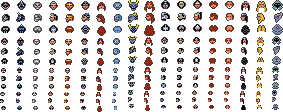
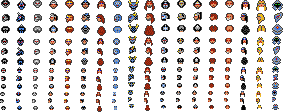
Head Fixes

diff --git a/testing.js b/testing.js
@@ -14,52 +14,15 @@ function testing(){
         DIRECTION = 3;
     }
     
-    var CHAR_PARTY_FRONT_RIGHTX = 65,
-            CHAR_PARTY_FRONT_RIGHTY = 0,
-            CHAR_PARTY_FRONT_LEFTX = -CHAR_PARTY_FRONT_RIGHTX,
-            CHAR_PARTY_FRONT_LEFTY = -CHAR_PARTY_FRONT_RIGHTY,
-            CHAR_SOLO_X = 0,
-            CHAR_SOLO_Y = 0;
-    
-//test1 = 3;
- //DIRECTION = 0;
- //TYPE = 1;
-    
-
-    
-   // var CHAR_OFFSETX = CHAR_SOLO_X,
-    //        CHAR_OFFSETY = CHAR_SOLO_Y;
-    
-   //var COLOUR = 1;
-    
     try {
         
-//        switch (DIRECTION) {
-//            
-//            case 0:{ctx.drawImage(characterGfx[IMAGE_CHA_LEG][COLOUR][TYPE][DISTANCE][DIRECTION],characterSpriteLocations[DISTANCE][0][0]+CHAR_OFFSETX,characterSpriteLocations[DISTANCE][0][1]+CHAR_OFFSETY,characterGfx[IMAGE_CHA_LEG][COLOUR][TYPE][DISTANCE][DIRECTION].width * scale, characterGfx[IMAGE_CHA_LEG][COLOUR][TYPE][DISTANCE][DIRECTION].height * scale); 
-//                    ctx.drawImage(characterGfx[IMAGE_CHA_BODY][COLOUR][TYPE][DISTANCE][DIRECTION],characterSpriteLocations[DISTANCE][1][0]+CHAR_OFFSETX,characterSpriteLocations[DISTANCE][1][1]+CHAR_OFFSETY,characterGfx[IMAGE_CHA_BODY][COLOUR][TYPE][DISTANCE][DIRECTION].width * scale, characterGfx[IMAGE_CHA_BODY][COLOUR][TYPE][DISTANCE][DIRECTION].height * scale); 
-//                    ctx.drawImage(characterGfx[IMAGE_CHA_HEAD][COLOUR][TYPE][DISTANCE][DIRECTION],characterSpriteLocations[DISTANCE][2][0]+CHAR_OFFSETX,characterSpriteLocations[DISTANCE][2][1]+CHAR_OFFSETY,characterGfx[IMAGE_CHA_HEAD][COLOUR][TYPE][DISTANCE][DIRECTION].width * scale, characterGfx[IMAGE_CHA_HEAD][COLOUR][TYPE][DISTANCE][DIRECTION].height * scale); 
-//                    ctx.drawImage(flipImage(characterGfx[IMAGE_CHA_ARM][COLOUR][TYPE][DISTANCE][DIRECTION]),characterSpriteLocations[DISTANCE][3][0]+CHAR_OFFSETX,characterSpriteLocations[DISTANCE][3][1]+CHAR_OFFSETY,characterGfx[IMAGE_CHA_ARM][COLOUR][0][DISTANCE][DIRECTION].width * scale, characterGfx[IMAGE_CHA_ARM][COLOUR][0][DISTANCE][DIRECTION].height * scale);
-//                    ctx.drawImage(characterGfx[IMAGE_CHA_ARM][COLOUR][TYPE][DISTANCE][DIRECTION],characterSpriteLocations[DISTANCE][4][0]+CHAR_OFFSETX,characterSpriteLocations[DISTANCE][4][1]+CHAR_OFFSETY-DISTANCE,characterGfx[IMAGE_CHA_ARM][COLOUR][0][DISTANCE][DIRECTION].width * scale, characterGfx[IMAGE_CHA_ARM][COLOUR][0][DISTANCE][DIRECTION].height * scale);}break;
-//            case 1:{ctx.drawImage(characterGfx[IMAGE_CHA_LEG][COLOUR][TYPE][DISTANCE][DIRECTION],characterSpriteLocations[DISTANCE][5][0]+CHAR_OFFSETX,characterSpriteLocations[DISTANCE][5][1]+CHAR_OFFSETY,characterGfx[IMAGE_CHA_LEG][COLOUR][TYPE][DISTANCE][DIRECTION].width * scale, characterGfx[IMAGE_CHA_LEG][COLOUR][TYPE][DISTANCE][DIRECTION].height * scale); 
-//                    ctx.drawImage(characterGfx[IMAGE_CHA_BODY][COLOUR][TYPE][DISTANCE][DIRECTION],characterSpriteLocations[DISTANCE][6][0]+CHAR_OFFSETX,characterSpriteLocations[DISTANCE][6][1]+CHAR_OFFSETY,characterGfx[IMAGE_CHA_BODY][COLOUR][TYPE][DISTANCE][DIRECTION].width * scale, characterGfx[IMAGE_CHA_BODY][COLOUR][TYPE][DISTANCE][DIRECTION].height * scale); 
-//                    ctx.drawImage(characterGfx[IMAGE_CHA_HEAD][COLOUR][TYPE][DISTANCE][DIRECTION],characterSpriteLocations[DISTANCE][7][0]+CHAR_OFFSETX,characterSpriteLocations[DISTANCE][7][1]+CHAR_OFFSETY,characterGfx[IMAGE_CHA_HEAD][COLOUR][TYPE][DISTANCE][DIRECTION].width * scale, characterGfx[IMAGE_CHA_HEAD][COLOUR][TYPE][DISTANCE][DIRECTION].height * scale);                    
-//                    ctx.drawImage(flipImage(characterGfx[IMAGE_CHA_ARM][COLOUR][0][DISTANCE][DIRECTION]),characterSpriteLocations[DISTANCE][8][0]+CHAR_OFFSETX,characterSpriteLocations[DISTANCE][8][1]+CHAR_OFFSETY,characterGfx[IMAGE_CHA_ARM][COLOUR][0][DISTANCE][DIRECTION].width * scale, characterGfx[IMAGE_CHA_ARM][COLOUR][0][DISTANCE][DIRECTION].height * scale);}break;
-//            case 2:{ctx.drawImage(characterGfx[IMAGE_CHA_LEG][COLOUR][TYPE][DISTANCE][DIRECTION],characterSpriteLocations[DISTANCE][9][0]+CHAR_OFFSETX,characterSpriteLocations[DISTANCE][9][1]+CHAR_OFFSETY,characterGfx[IMAGE_CHA_LEG][COLOUR][TYPE][DISTANCE][DIRECTION].width * scale, characterGfx[IMAGE_CHA_LEG][COLOUR][TYPE][DISTANCE][DIRECTION].height * scale); 
-//                    ctx.drawImage(characterGfx[IMAGE_CHA_BODY][COLOUR][TYPE][DISTANCE][DIRECTION],characterSpriteLocations[DISTANCE][10][0]+CHAR_OFFSETX,characterSpriteLocations[DISTANCE][10][1]+CHAR_OFFSETY,characterGfx[IMAGE_CHA_BODY][COLOUR][TYPE][DISTANCE][DIRECTION].width * scale, characterGfx[IMAGE_CHA_BODY][COLOUR][TYPE][DISTANCE][DIRECTION].height * scale); 
-//                    ctx.drawImage(characterGfx[IMAGE_CHA_HEAD][COLOUR][TYPE][DISTANCE][DIRECTION],characterSpriteLocations[DISTANCE][11][0]+CHAR_OFFSETX,characterSpriteLocations[DISTANCE][11][1]+CHAR_OFFSETY,characterGfx[IMAGE_CHA_HEAD][COLOUR][TYPE][DISTANCE][DIRECTION].width * scale, characterGfx[IMAGE_CHA_HEAD][COLOUR][TYPE][DISTANCE][DIRECTION].height * scale);
-//                    ctx.drawImage(flipImage(characterGfx[IMAGE_CHA_ARM][COLOUR][0][DISTANCE][DIRECTION]),characterSpriteLocations[DISTANCE][12][0]+CHAR_OFFSETX,characterSpriteLocations[DISTANCE][12][1]+CHAR_OFFSETY,characterGfx[IMAGE_CHA_ARM][COLOUR][0][DISTANCE][DIRECTION].width * scale, characterGfx[IMAGE_CHA_ARM][COLOUR][0][DISTANCE][DIRECTION].height * scale);}break;
-//            case 3:{ctx.drawImage(characterGfx[IMAGE_CHA_LEG][COLOUR][TYPE][DISTANCE][DIRECTION],characterSpriteLocations[DISTANCE][13][0]+CHAR_OFFSETX,characterSpriteLocations[DISTANCE][13][1]+CHAR_OFFSETY,characterGfx[IMAGE_CHA_LEG][COLOUR][TYPE][DISTANCE][DIRECTION].width * scale, characterGfx[IMAGE_CHA_LEG][COLOUR][TYPE][DISTANCE][DIRECTION].height * scale); 
-//                    ctx.drawImage(characterGfx[IMAGE_CHA_BODY][COLOUR][TYPE][DISTANCE][DIRECTION],characterSpriteLocations[DISTANCE][14][0]+CHAR_OFFSETX,characterSpriteLocations[DISTANCE][14][1]+CHAR_OFFSETY,characterGfx[IMAGE_CHA_BODY][COLOUR][TYPE][DISTANCE][DIRECTION].width * scale, characterGfx[IMAGE_CHA_BODY][COLOUR][TYPE][DISTANCE][DIRECTION].height * scale); 
-//                    ctx.drawImage(characterGfx[IMAGE_CHA_HEAD][COLOUR][TYPE][DISTANCE][DIRECTION],characterSpriteLocations[DISTANCE][15][0]+CHAR_OFFSETX,characterSpriteLocations[DISTANCE][15][1]+CHAR_OFFSETY,characterGfx[IMAGE_CHA_HEAD][COLOUR][TYPE][DISTANCE][DIRECTION].width * scale, characterGfx[IMAGE_CHA_HEAD][COLOUR][TYPE][DISTANCE][DIRECTION].height * scale); 
-//                    ctx.drawImage(flipImage(characterGfx[IMAGE_CHA_ARM][COLOUR][0][DISTANCE][0]),characterSpriteLocations[DISTANCE][17][0]+CHAR_OFFSETX,characterSpriteLocations[DISTANCE][17][1]+CHAR_OFFSETY,characterGfx[IMAGE_CHA_ARM][COLOUR][0][DISTANCE][0].width * scale, characterGfx[IMAGE_CHA_ARM][COLOUR][0][DISTANCE][0].height * scale);
-//                    ctx.drawImage(characterGfx[IMAGE_CHA_ARM][COLOUR][0][DISTANCE][0],characterSpriteLocations[DISTANCE][16][0]+CHAR_OFFSETX,characterSpriteLocations[DISTANCE][16][1]+CHAR_OFFSETY,characterGfx[IMAGE_CHA_ARM][COLOUR][0][DISTANCE][0].width * scale, characterGfx[IMAGE_CHA_ARM][COLOUR][0][DISTANCE][0].height * scale);
-//                    
-//                    }break;
-//        }
-    drawCharacter(characterGfx[IMAGE_CHA_HEAD][COLOUR][TYPE][DISTANCE][DIRECTION],characterGfx[IMAGE_CHA_BODY][COLOUR][TYPE][DISTANCE][DIRECTION],characterGfx[IMAGE_CHA_ARM][COLOUR][TYPE][DISTANCE][DIRECTION],characterGfx[IMAGE_CHA_LEG][COLOUR][TYPE][DISTANCE][DIRECTION],CHAR_FRONT_LEFT,DIRECTION)    
-    drawCharacter(characterGfx[IMAGE_CHA_HEAD][3][9][DISTANCE][DIRECTION],characterGfx[IMAGE_CHA_BODY][4][0][DISTANCE][DIRECTION],characterGfx[IMAGE_CHA_ARM][4][0][DISTANCE][DIRECTION],characterGfx[IMAGE_CHA_LEG][3][0][DISTANCE][DIRECTION],CHAR_FRONT_RIGHT,DIRECTION)    
-        
+            drawCharacter(characterGfx[IMAGE_CHA_HEAD][COLOUR][TYPE][DISTANCE][DIRECTION],characterGfx[IMAGE_CHA_BODY][COLOUR][TYPE][DISTANCE][DIRECTION],characterGfx[IMAGE_CHA_ARM][COLOUR][TYPE][DISTANCE][DIRECTION],characterGfx[IMAGE_CHA_LEG][COLOUR][TYPE][DISTANCE][DIRECTION],CHAR_FRONT_LEFT,DIRECTION)    
+            //drawCharacter(characterGfx[IMAGE_CHA_HEAD][3][9][DISTANCE][DIRECTION],characterGfx[IMAGE_CHA_BODY][4][0][DISTANCE][DIRECTION],characterGfx[IMAGE_CHA_ARM][4][0][DISTANCE][DIRECTION],characterGfx[IMAGE_CHA_LEG][3][0][DISTANCE][DIRECTION],CHAR_FRONT_RIGHT,DIRECTION)    //ULRICH
+            //drawCharacter(characterGfx[IMAGE_CHA_HEAD][2][11][DISTANCE][DIRECTION],characterGfx[IMAGE_CHA_BODY][2][1][DISTANCE][DIRECTION],characterGfx[IMAGE_CHA_ARM][2][0][DISTANCE][DIRECTION],characterGfx[IMAGE_CHA_LEG][2][0][DISTANCE][DIRECTION],CHAR_FRONT_RIGHT,DIRECTION)    //THAI
+            drawCharacter(characterGfx[IMAGE_CHA_HEAD][2][17][DISTANCE][DIRECTION],
+                          characterGfx[IMAGE_CHA_BODY][2][1][DISTANCE][DIRECTION],
+                          characterGfx[IMAGE_CHA_ARM][1][0][DISTANCE][DIRECTION],
+                          characterGfx[IMAGE_CHA_LEG][0][0][DISTANCE][DIRECTION],CHAR_FRONT_RIGHT,DIRECTION)    //THAI
     }catch(e){PrintLog("Error Drawing Character/Monster: " + e.toString());};
     
 }
@@ -75,7 +38,7 @@ function characterSpriteLocation(){
                             //Front View
                             new Array(170,116),
                             new Array(169,74),
-                            new Array(175,51),
+                            new Array(175,56),
                             new Array(201,82),
                             new Array(155,82),
                             //Left View

diff --git a/graphics.js b/graphics.js
@@ -541,7 +541,7 @@ function recolorImage(img, colour, folder, type){
 			switch (colour) {
 				case COLOUR_CHAR_GREEN: pallet =      	[COLOUR_RED,      COLOUR_GREEN_DARK,      	COLOUR_GREEN,  COLOUR_GREEN_DARK]; 	break;
 				case COLOUR_CHAR_YELLOW: pallet =       [COLOUR_YELLOW,     COLOUR_YELLOW,     COLOUR_ORANGE,      COLOUR_ORANGE];     	break;
-				case COLOUR_CHAR_RED: pallet =       	[COLOUR_RED,     	COLOUR_RED,     	COLOUR_RED,    COLOUR_RED_DARK];   	break;
+				case COLOUR_CHAR_RED: pallet =       	[COLOUR_RED,     	COLOUR_RED,     	COLOUR_RED_DARK,    COLOUR_BLACK];   	break;
 				case COLOUR_CHAR_BLUE: pallet =         [COLOUR_BLUE_DARK,     	COLOUR_BLUE,     	COLOUR_GREY_1,      COLOUR_BLACK];  		break;
 				case COLOUR_CHAR_BRONZE: pallet =       [COLOUR_BLUE_DARK,     COLOUR_ORANGE,     COLOUR_BROWN,       COLOUR_BROWN];   break;
 				case COLOUR_CHAR_IRON: pallet =         [COLOUR_GREY_1,     COLOUR_GREY_1,     COLOUR_GREY_2,      COLOUR_GREY_2];     break;
